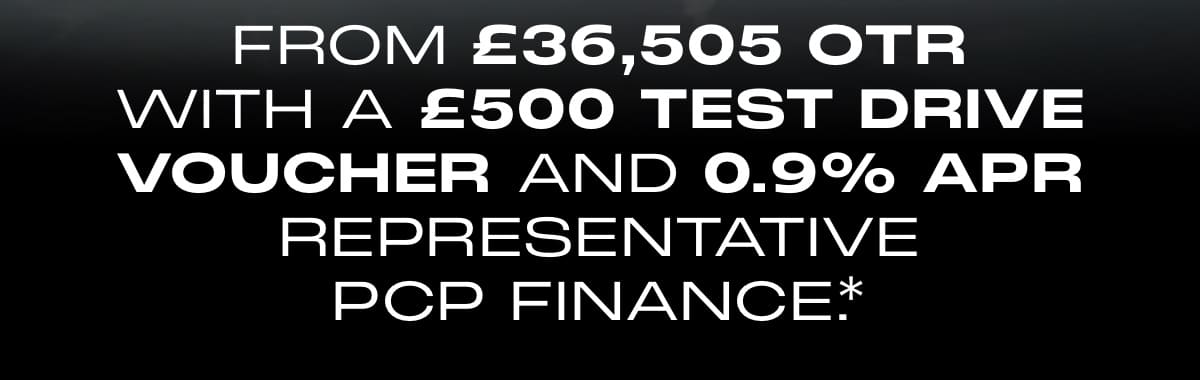
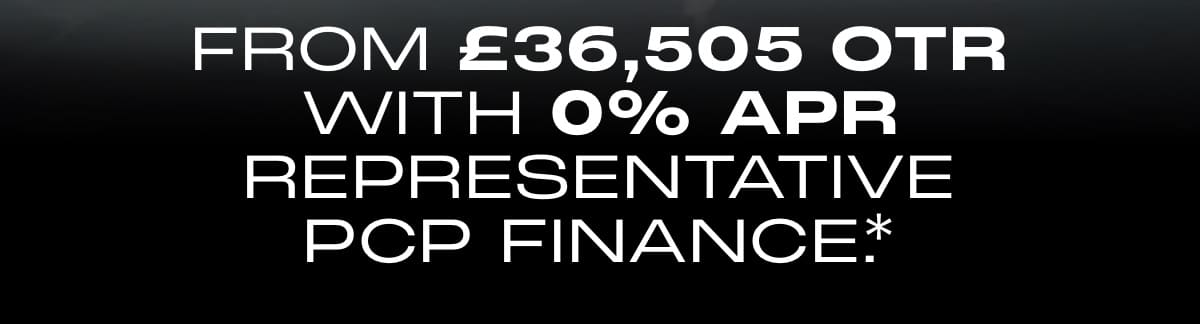
update

Changed region(s): [[0.0925, 0.0617, 0.925, 0.8642]]

diff --git a/complete/omoda/JAECOO 7 Black Luxury Q3 2026 Offer Email/index.html b/complete/omoda/JAECOO 7 Black Luxury Q3 2026 Offer Email/index.html
@@ -87,7 +87,7 @@
     
       <!-- Preheader -->
       <div style="display: none; max-height: 0px; overflow: hidden;">
-        Make a darker statement with the JAECOO 7 Black Luxury, from £36,505 OTR with a £500 Test Drive Voucher and 0.9% APR Representative PCP Finance.
+        Make a darker statement with the JAECOO 7 Black Luxury, from £36,505 OTR with 0% APR Representative PCP Finance.
         &nbsp;&zwnj;&nbsp;&zwnj;&nbsp;&zwnj;&nbsp;&zwnj;&nbsp;&zwnj;&nbsp;&zwnj;&nbsp;&zwnj;&nbsp;&zwnj;&nbsp;&zwnj;&nbsp;&zwnj;&nbsp;&zwnj;&nbsp;&zwnj;&nbsp;&zwnj;&nbsp;&zwnj;&nbsp;&zwnj;&nbsp;&zwnj;&nbsp;&zwnj;&nbsp;&zwnj;&nbsp;&zwnj;&nbsp;&zwnj;&nbsp;&zwnj;&nbsp;&zwnj;&nbsp;&zwnj;&nbsp;&zwnj;&nbsp;&zwnj;&nbsp;&zwnj;&nbsp;&zwnj;&nbsp;&zwnj;&nbsp;&zwnj;&nbsp;&zwnj;&nbsp;&zwnj;&nbsp;&zwnj;&nbsp;&zwnj;&nbsp;&zwnj;&nbsp;&zwnj;&nbsp;&zwnj;&nbsp;&zwnj;&nbsp;&zwnj;&nbsp;&zwnj;&nbsp;&zwnj;&nbsp;&zwnj;&nbsp;&zwnj;&nbsp;&zwnj;&nbsp;&zwnj;&nbsp;&zwnj;&nbsp;&zwnj;&nbsp;&zwnj;&nbsp;&zwnj;&nbsp;&zwnj;&nbsp;&zwnj;&nbsp;&zwnj;&nbsp;&zwnj;&nbsp;&zwnj;&nbsp;&zwnj;&nbsp;&zwnj;&nbsp;&zwnj;&nbsp;&zwnj;&nbsp;&zwnj;&nbsp;&zwnj;&nbsp;&zwnj;&nbsp;&zwnj;&nbsp;&zwnj;&nbsp;&zwnj;&nbsp;&zwnj;&nbsp;&zwnj;&nbsp;&zwnj;&nbsp;&zwnj;&nbsp;&zwnj;&nbsp;&zwnj;&nbsp;&zwnj;&nbsp;&zwnj;&nbsp;&zwnj;&nbsp;&zwnj;&nbsp;&zwnj;&nbsp;&zwnj;&nbsp;&zwnj;&nbsp;&zwnj;&nbsp;&zwnj;&nbsp;&zwnj;&nbsp;&zwnj;&nbsp;&zwnj;&nbsp;&zwnj;&nbsp;&zwnj;&nbsp;&zwnj;&nbsp;&zwnj;&nbsp;&zwnj;&nbsp;&zwnj;&nbsp;&zwnj;&nbsp;&zwnj;&nbsp;&zwnj;&nbsp;&zwnj;&nbsp;&zwnj;&nbsp;&zwnj;&nbsp;&zwnj;&nbsp;&zwnj;&nbsp;&zwnj;&nbsp;&zwnj;&nbsp;&zwnj;&nbsp;&zwnj;&nbsp;&zwnj;&nbsp;&zwnj;&nbsp;&zwnj;&nbsp;&zwnj;&nbsp;&zwnj;&nbsp;&zwnj;&nbsp;&zwnj;&nbsp;&zwnj;&nbsp;&zwnj;&nbsp;&zwnj;&nbsp;&zwnj;&nbsp;&zwnj;&nbsp;&zwnj;&nbsp;&zwnj;&nbsp;&zwnj;&nbsp;&zwnj;&nbsp;&zwnj;&nbsp;&zwnj;&nbsp;&zwnj;&nbsp;&zwnj;&nbsp;&zwnj;&nbsp;&zwnj;&nbsp;&zwnj;&nbsp;&zwnj;&nbsp;&zwnj;&nbsp;&zwnj;&nbsp;&zwnj;&nbsp;&zwnj;&nbsp;&zwnj;&nbsp;&zwnj;&nbsp;&zwnj;&nbsp;&zwnj;&nbsp;&zwnj;&nbsp;&zwnj;&nbsp;&zwnj;&nbsp;&zwnj;&nbsp;&zwnj;&nbsp;&zwnj;&nbsp;&zwnj;&nbsp;&zwnj;&nbsp;&zwnj;&nbsp;&zwnj;&nbsp;&zwnj;&nbsp;&zwnj;&nbsp;&zwnj;&nbsp;&zwnj;&nbsp;&zwnj;&nbsp;&zwnj;&nbsp;&zwnj;&nbsp;&zwnj;&nbsp;&zwnj;
       </div>
       <!-- !========== -->
@@ -128,7 +128,7 @@
                   <h2 style="font-family: Calibri, Helvetica, Arial, sans-serif; font-size:22px; line-height: 22px; color:#ffffff; Margin: 0; font-weight: bold">
                     <img class="resp hom" align="center" src="images/hero-h1-d.jpg" alt="From £36,505 OTR with a £500 Test Drive Voucher and 0.9% APR representative PCP finance*." width="600" border="0" style="display: block; width: 600px; max-width: 100%; height: auto">
                     <!--[if !mso]><!-->
-                    <img class="resp som" align="center" src="images/hero-h1-d.jpg" alt="From £36,505 OTR with a £500 Test Drive Voucher and 0.9% APR representative PCP finance*." border="0" style="display: none; width: 100%; max-width: 100%;height: auto">
+                    <img class="resp som" align="center" src="images/hero-h1-d.jpg" alt="From £36,505 OTR with  0% APR   representative PCP finance*." border="0" style="display: none; width: 100%; max-width: 100%;height: auto">
                     <!--<![endif]-->
                   </h2>
                 </td>
@@ -153,7 +153,7 @@
                 </td>
                 <td style="padding: 20px 30px 20px; mso-padding-alt: 40px 30px 20px 30px;" align="center">
                   <p style="font-family: Calibri, Helvetica, Arial, sans-serif; font-size: 16px; line-height: 24px; mso-line-height-rule: exactly; color: #ffffff; Margin: 0 0 16px 0;">Hello&nbsp;[Name],</p>
-                  <p style="font-family: Calibri, Helvetica, Arial, sans-serif; font-size: 16px; line-height: 24px; mso-line-height-rule: exactly; color: #ffffff; Margin: 0 0 16px 0;">Make a darker statement with the JAECOO 7 Black Luxury, from <strong>£36,505 OTR</strong> with a <strong>£500 Test Drive Voucher</strong><sup style="font-size: 10px; line-height: 0; ">†</sup> and <strong>0.9% APR</strong> Representative PCP&nbsp;Finance.</p>
+                  <p style="font-family: Calibri, Helvetica, Arial, sans-serif; font-size: 16px; line-height: 24px; mso-line-height-rule: exactly; color: #ffffff; Margin: 0 0 16px 0;">Make a darker statement with the JAECOO 7 Black Luxury, from <strong>£36,505&nbsp;OTR</strong> with <strong>0%&nbsp;APR</strong> Representative PCP&nbsp;Finance.</p>
                   <p style="font-family: Calibri, Helvetica, Arial, sans-serif; font-size: 16px; line-height: 24px; mso-line-height-rule: exactly; color: #ffffff; Margin: 0 0 16px 0;">Exclusive black styling, a refined dark interior and our Advanced Super Hybrid System create a flagship SUV with unmistakable presence. Sophisticated, efficient and crafted to stand&nbsp;apart.</p>
                   <p style="font-family: Calibri, Helvetica, Arial, sans-serif; font-size: 16px; line-height: 24px; mso-line-height-rule: exactly; color: #ffffff; Margin: 0 0 16px 0;">Experience premium SUV design at its boldest. Book your test drive&nbsp;today.</p>
                 </td>
@@ -248,58 +248,54 @@
                         <td style="padding: 10px; text-align: right;border-top: 1px solid #C7C7C7">£1,499.00</td>
                       </tr>
                       <tr style="background-color: #4D4D4F">
-                        <td class="" style="padding: 10px; border-right: 1px solid #C7C7C7;border-top: 1px solid #C7C7C7">Test Drive Voucher <sup style="font-size: 10px; line-height: 0; ">†</sup></td>
-                        <td class="" style="padding: 10px; text-align: right;border-top: 1px solid #C7C7C7">£500.00</td>
+                        <td style="padding: 10px; border-right: 1px solid #C7C7C7;border-top: 1px solid #C7C7C7">Total Deposit </td>
+                        <td style="padding: 10px; text-align: right;border-top: 1px solid #C7C7C7">£1,499.00</td>
                       </tr>
                       <tr style="color: #fff;">
-                        <td style="padding: 10px; border-right: 1px solid #C7C7C7;border-top: 1px solid #C7C7C7">Total Deposit </td>
-                        <td style="padding: 10px; text-align: right;border-top: 1px solid #C7C7C7">£1,999.00</td>
+                        <td class="" style="padding: 10px; border-right: 1px solid #C7C7C7;border-top: 1px solid #C7C7C7">Total Amount of Credit </td>
+                        <td class="" style="padding: 10px; text-align: right;border-top: 1px solid #C7C7C7">£35,006.00</td>
                       </tr>
                       <tr style="background-color: #4D4D4F">
-                        <td class="" style="padding: 10px; border-right: 1px solid #C7C7C7;border-top: 1px solid #C7C7C7">Total Amount of Credit </td>
-                        <td class="" style="padding: 10px; text-align: right;border-top: 1px solid #C7C7C7">£34,506.00</td>
-                      </tr>
-                      <tr style="color: #fff;">
                         <td style="padding: 10px; border-right: 1px solid #C7C7C7;border-top: 1px solid #C7C7C7">Agreement Term </td>
                         <td style="padding: 10px;text-align: right;border-top: 1px solid #C7C7C7">49 months</td>
                       </tr>
-                      <tr style="background-color: #4D4D4F">
+                      <tr style="color: #fff;">
                         <td class="" style="padding: 10px; border-right: 1px solid #C7C7C7;border-top: 1px solid #C7C7C7">Annual Mileage </td>
                         <td class="" style="padding: 10px; text-align: right;border-top: 1px solid #C7C7C7">6000 miles</td>
                       </tr>
-                      <tr style="color: #fff;">
+                      <tr style="background-color: #4D4D4F">
                         <td style="padding: 10px; border-right: 1px solid #C7C7C7;border-top: 1px solid #C7C7C7">Excess per mile </td>
                         <td style="padding: 10px; text-align: right;border-top: 1px solid #C7C7C7">11.0p</td>
                       </tr>
-                      <tr style="background-color: #4D4D4F">
+                      <tr style="color: #fff;">
                         <td class="" style="padding: 10px; border-right: 1px solid #C7C7C7;border-top: 1px solid #C7C7C7">Option to Purchase Fee </td>
-                        <td class="" style="padding: 10px; text-align: right;border-top: 1px solid #C7C7C7">£1.00</td>
+                        <td class="" style="padding: 10px; text-align: right;border-top: 1px solid #C7C7C7">£0.00</td>
+                      </tr>
+                      <tr style="background-color: #4D4D4F">
+                        <td style="padding: 10px; border-right: 1px solid #C7C7C7;border-top: 1px solid #C7C7C7">Followed by 48 Payments </td>
+                        <td style="padding: 10px; text-align: right;border-top: 1px solid #C7C7C7">£408.64</td>
                       </tr>
                       <tr style="color: #fff;">
-                        <td style="padding: 10px; border-right: 1px solid #C7C7C7;border-top: 1px solid #C7C7C7">Followed by 48 Payments </td>
-                        <td style="padding: 10px; text-align: right;border-top: 1px solid #C7C7C7">£417.28</td>
-                      </tr>
-                      <tr style="background-color: #4D4D4F">
                         <td class="" style="padding: 10px; border-right: 1px solid #C7C7C7;border-top: 1px solid #C7C7C7">Optional Final Payment  </td>
                         <td class="" style="padding: 10px; text-align: right;border-top: 1px solid #C7C7C7">£15,391.31</td>
                       </tr>
-                      <tr style="color: #fff;">
-                        <td style="padding: 10px; border-right: 1px solid #C7C7C7;border-top: 1px solid #C7C7C7;">Interest Charges </td>
-                        <td style="padding: 10px; text-align: right;border-top: 1px solid #C7C7C7">£914.75</td>
-                      </tr>
                       <tr style="background-color: #4D4D4F">
+                        <td style="padding: 10px; border-right: 1px solid #C7C7C7;border-top: 1px solid #C7C7C7;">Interest Charges </td>
+                        <td style="padding: 10px; text-align: right;border-top: 1px solid #C7C7C7">£0.00</td>
+                      </tr>
+                      <tr style="color: #fff;">
                         <td class="" style="padding: 10px; border-right: 1px solid #C7C7C7;border-top: 1px solid #C7C7C7; border-bottom: 1px solid #C7C7C7">Annual Fixed Interest Rate </td>
-                        <td class="" style="padding: 10px; text-align: right;border-top: 1px solid #C7C7C7; border-bottom: 1px solid #C7C7C7">0.90%</td>
+                        <td class="" style="padding: 10px; text-align: right;border-top: 1px solid #C7C7C7; border-bottom: 1px solid #C7C7C7">0.00%</td>
+                      </tr>
+                      
+                      <tr style="background-color: #4D4D4F">
+                        <td style="padding: 10px 10px 11px; border-right: 1px solid #C7C7C7;border-top: 1px solid #C7C7C7; border-bottom: 1px solid #C7C7C7">APR Representative </td>
+                        <td style="padding: 10px 10px 11px; text-align: right;border-top: 1px solid #C7C7C7; border-bottom: 1px solid #C7C7C7">0.00%</td>
                       </tr>
                       
                       <tr style="color: #fff;">
-                        <td style="padding: 10px 10px 11px; border-right: 1px solid #C7C7C7;border-top: 1px solid #C7C7C7; border-bottom: 1px solid #C7C7C7">APR Representative </td>
-                        <td style="padding: 10px 10px 11px; text-align: right;border-top: 1px solid #C7C7C7; border-bottom: 1px solid #C7C7C7">0.90%</td>
-                      </tr>
-                      
-                      <tr style="background-color: #4D4D4F;">
                         <td class="" style="padding: 10px; border-right: 1px solid #C7C7C7;border-top: 1px solid #C7C7C7; border-bottom: 1px solid #C7C7C7">Total Amount Payable </td>
-                        <td class="" style="padding: 10px; text-align: right;border-top: 1px solid #C7C7C7; border-bottom: 1px solid #C7C7C7">£37,420.75</td>
+                        <td class="" style="padding: 10px; text-align: right;border-top: 1px solid #C7C7C7; border-bottom: 1px solid #C7C7C7">£36,505.00</td>
                       </tr>
                       
                     </tbody>
@@ -436,7 +432,7 @@
                     *Terms and Conditions.
                   </h4>
                   <p style="font-family: Calibri, Helvetica, Arial, sans-serif; font-size:10px; color:#ffffff; mso-line-height-rule:exactly; line-height:16px; font-weight: normal; Margin: 0 0 10px" class="para hauto">
-                    Representative 0.90% APR, on JAECOO 7 1.5T PHEV Black Luxury 5dr&nbsp;Auto
+                    Representative 0% APR, on JAECOO 7 1.5T PHEV Black Luxury 5dr&nbsp;Auto.
                   </p>
                   <p style="font-family: Calibri, Helvetica, Arial, sans-serif; font-size:10px; color:#ffffff; mso-line-height-rule:exactly; line-height:16px; font-weight: normal; Margin: 0 0 10px" class="para hauto">
                     Representative Example based on 6,000 miles per annum. Credit available subject to&nbsp;status.
@@ -451,16 +447,14 @@
                     With Personal Contract Purchase, once you have paid all of your regular monthly repayments you can either 1) Pay the Optional Final Repayment and own the car. 2) Part exchange the car for a new one (subject to settlement of your existing agreement, new agreements are subject to status). 3) Return the car to Creation without paying the optional final repayment. Providing you’ve not exceeded the maximum agreed mileage and the car is in good condition (fair wear and tear accepted) you will have nothing further to pay. If the vehicle has exceeded the maximum agreed mileage then a charge of 11.0p+ VAT per excess mile&nbsp;applies.
                   </p>
                   <p style="font-family: Calibri, Helvetica, Arial, sans-serif; font-size:10px; color:#ffffff; mso-line-height-rule:exactly; line-height:16px; font-weight: normal; Margin: 0 0 10px" class="para hauto">
-                    Offer available on eligible vehicle orders placed from 01/07/26 until withdrawn, subject to availability. OMODA &amp; JAECOO UK Limited reserves the right to amend or withdraw this offer without prior notice. Any such amendment or withdrawal will not affect finance agreements already entered&nbsp;into.
+                    Offer available on eligible vehicle orders placed from 19/08/26 until withdrawn, subject to availability. OMODA &amp; JAECOO UK Limited reserves the right to amend or withdraw this offer without prior notice. Any such amendment or withdrawal will not affect finance agreements already entered&nbsp;into.
                   </p>
                   
                   <p style="font-family: Calibri, Helvetica, Arial, sans-serif; font-size:10px; color:#ffffff; mso-line-height-rule:exactly; line-height:16px; font-weight: normal; Margin: 0 0 10px" class="para hauto">
                     <span style="color: magenta">{Insert your financial permissions here. This includes but is not limited to your credit broker statement and additi onal small print. Example of minimum criteria below. {Full legal entity name plus any trading name(s)} is a credit broker, not a lender {post code}. Finance provided by ** Finance Provider **, ** Finance Providers Postcode**. Finance subject to status, 18+ Ts &amp; Cs&nbsp;apply.}
                     </span>
                   </p>
-                  <p style="font-family: Calibri, Helvetica, Arial, sans-serif; font-size:10px; color:#ffffff; mso-line-height-rule:exactly; line-height:16px; font-weight: normal; Margin: 0 0 10px" class="para hauto">
-                    † Offer valid for private retail only upon taking a test drive. Not available to Fleet customer or Motability customers. The £500 (incl. VAT) is redeemable against the purchase of a new JAECOO 7 1.5T PHEV Black Luxury 5dr Auto on orders placed from 01/07/26 until withdrawn, subject to availability. Offer can be used in conjunction with the 0.9% APR finance offer. Available at participating retailers only. This offer cannot be used in conjunction with any other promotions or discounts. For full details, please contact your local OMODA &amp; JAECOO dealer. OMODA &amp; JAECOO UK Limited reserves the right to amend or withdraw this offer at any time without prior&nbsp;notice.
-                  </p>
+                  
                 </td>
                 <td width="30" style="width: 30px" class="">
                   <!-- Spacer -->
